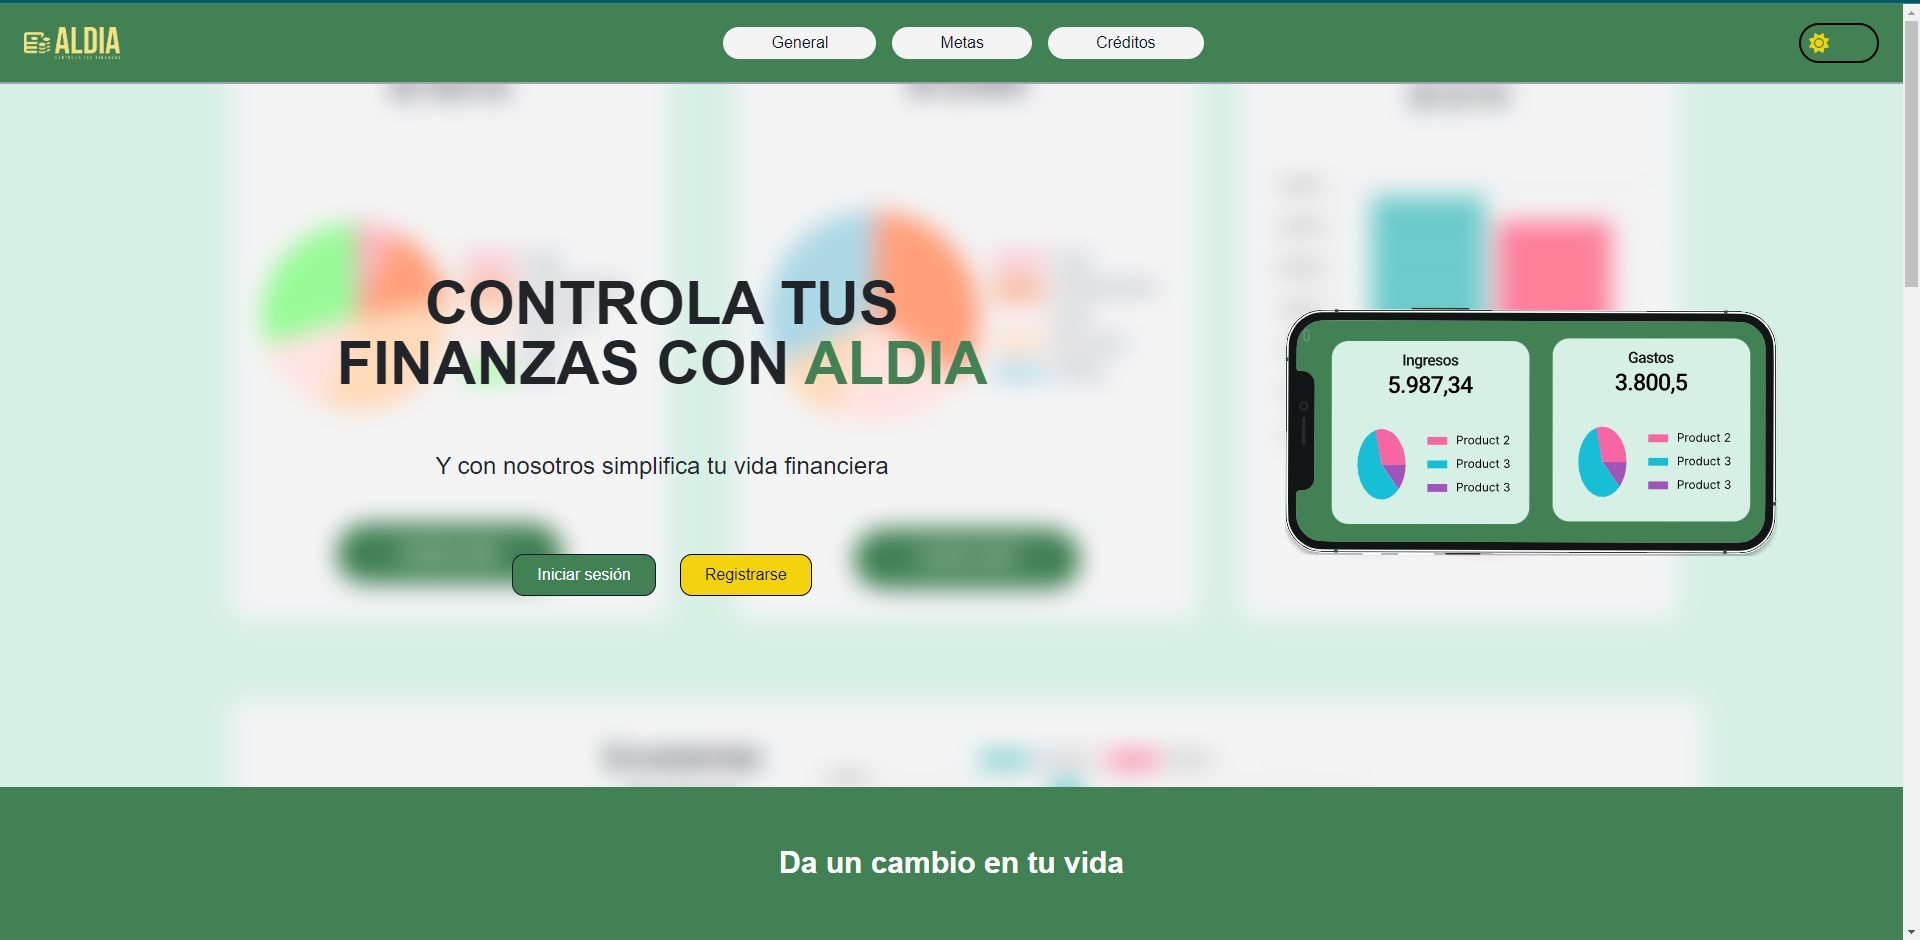
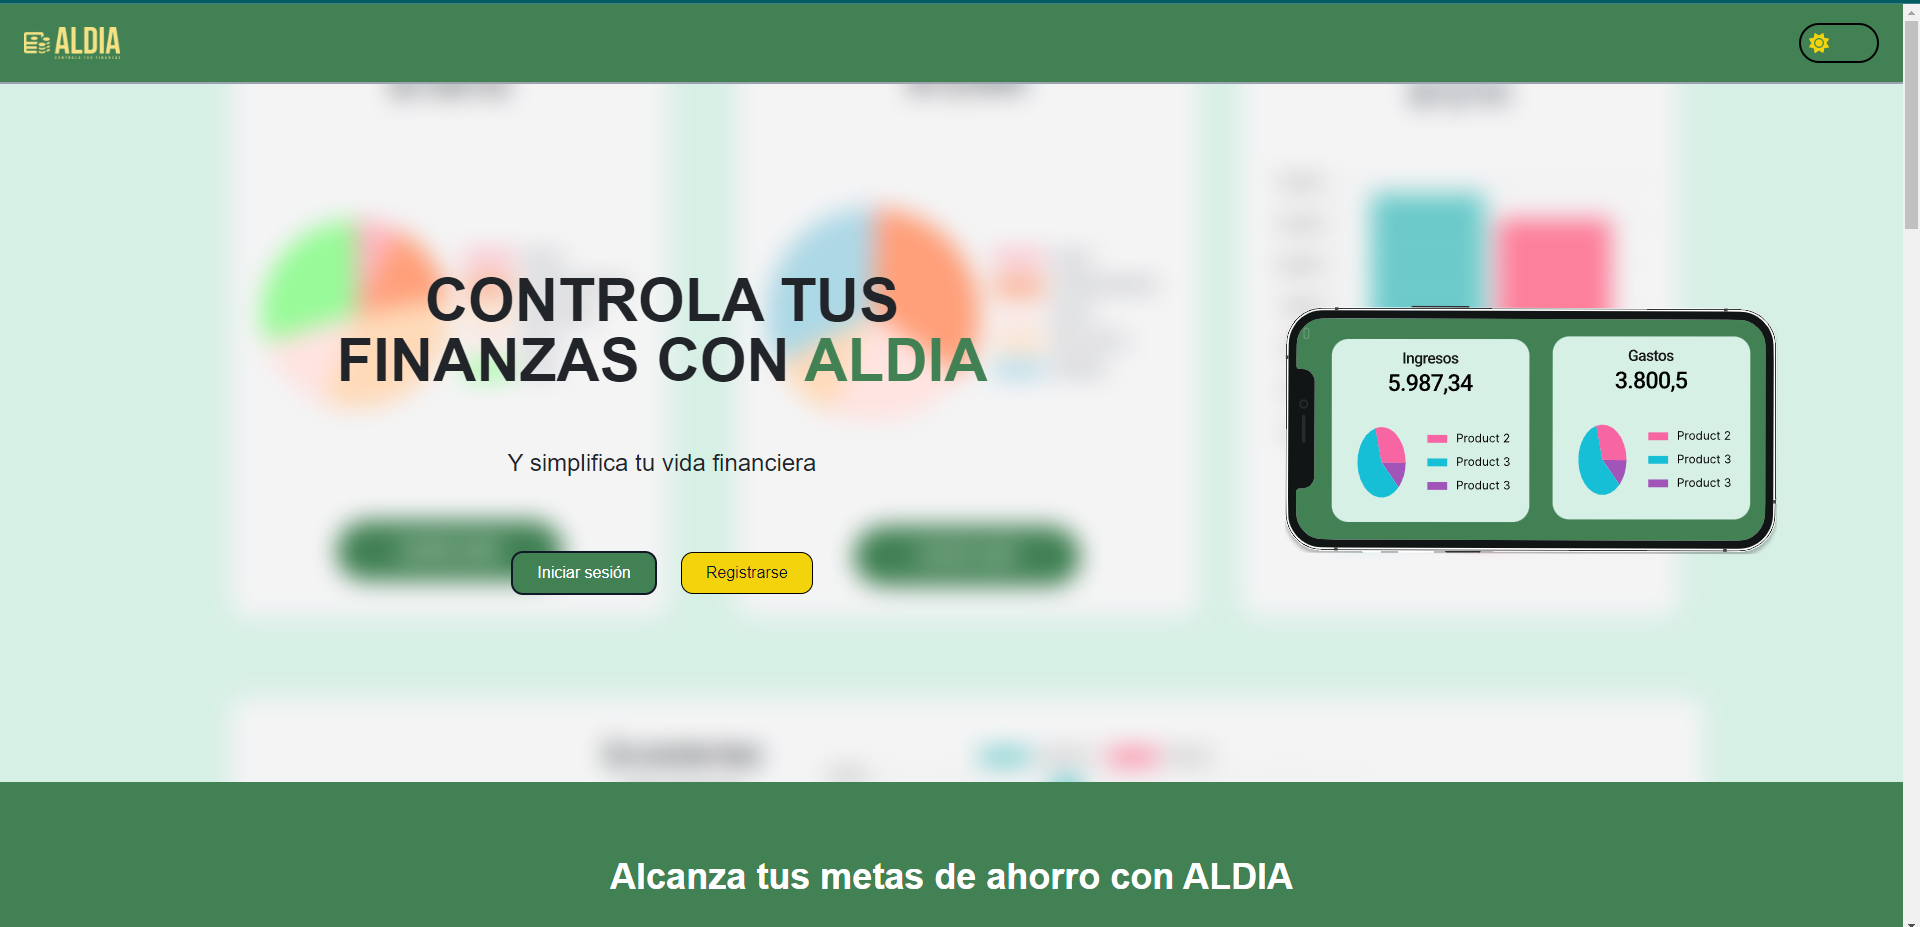
projects card

diff --git a/src/components/Projects/CardNew.jsx b/src/components/Projects/CardNew.jsx
@@ -1,48 +1,27 @@
 import React from "react";
-import { motion } from "framer-motion";
-import { fadeIn } from "../../utils/motion";
 import { styles } from "../../styles";
-import { Tilt } from "react-tilt";
 
 const WorkCard = ({ project, index, language }) => {
-	const {source_code_link, source_deploy} = project
+	const { source_code_link, source_deploy } = project;
 
 	return (
-		<div
-			className="flex flex-wrap gap-8 justify-center pt-8 
-			w-[90vw] md:w-[400px] lg:w-[450px] xl:w-[480px] 2xl:w-[410px] 3xl:w-[440px]"
-			key={index}
-		>
-			<Tilt className="w-[75vw] mb-16"
-			options={{
-				max: 15,
-				scale: 1,
-				speed: 200,
-			}}>
-				<motion.div
-					className="w-full p-[1px] rounded-[20px] shadow-card green-pink-gradient"
-					variants={fadeIn("right", "spring", 0.5 * index, 0.75)}
-					whileHover={{ tilt: 10 }}
-					transition={{ duration: 2 }}
-				>
-					<div
-						options={{
-							max: 10,
-							scale: 1,
-							speed: 200,
-						}}
-						className="bg-[#112240] rounded-[20px] p-6 flex flex-col justify-center
-        		"
-					>
-						<div key={index}>
-							<div className="relative ">
-								<img
-									className="relative z-10 top-0 left-0 w-full h-[220px] mb-3 rounded-xl"
-									src={project?.image[0]} 
-									alt={project?.name + " img"}
-								/>
-							</div>
-							<div className="text-left">
+		<div className="md:w-[60vw] lg:w-[40vw] 3xl:w-[25vw] gap-8 pt-16" key={index}>
+			<div className="p-[1px] rounded-[20px] shadow-card green-pink-gradient-not-hover">
+				<div className="bg-main-blue rounded-[20px] p-6 flex flex-col flex-wrap justify-center">
+					<div key={index} className="flex flex-wrap gap-x-8">
+						{/* image */}
+						<div>
+							<img
+								className="relative z-10 top-0 left-0 w-full h-[220px] mb-3 rounded-xl
+								transition-transform hover:scale-[1.03] cursor-pointer"
+								src={project?.image[0]}
+								alt={project?.name + " img"}
+							/>
+						</div>
+
+						<div>
+							{/* project name, icons deploy and git */}
+							<div className="text-left flex justify-between items-center pb-4">
 								<p
 									className={
 										"text-white hover:text-main-pink hover:opacity-90 duration-1000 font-black text-xl pb-2 "
@@ -50,28 +29,55 @@ const WorkCard = ({ project, index, language }) => {
 								>
 									{project["name_" + language]}
 								</p>
-								<p className="text-gray-400 tracking-wider text-justify pb-2">
+
+								{/* deploy and git icons */}
+								<div className="text-right pt-2 text-2xl flex items-center">
+									{source_code_link && (
+										<a href={source_code_link} target="_blank">
+											<i
+												className={`fa-brands fa-github cursor-pointer p-1 rounded-full mr-2 ${styles?.hoverChangeBorderAndColor}`}
+											></i>
+										</a>
+									)}
+									{source_deploy && (
+										<a href={source_deploy} target="_blank">
+											<svg stroke="currentColor" fill="none" stroke-width="0" viewBox="0 0 15 15" class="text-main-green hover:text-main-pink duration-300 text-[24px] cursor-pointer  hover:opacity-80 " height="1em" width="1em" xmlns="http://www.w3.org/2000/svg"><path fill-rule="evenodd" clip-rule="evenodd" d="M6.85357 3.85355L7.65355 3.05353C8.2981 2.40901 9.42858 1.96172 10.552 1.80125C11.1056 1.72217 11.6291 1.71725 12.0564 1.78124C12.4987 1.84748 12.7698 1.97696 12.8965 2.10357C13.0231 2.23018 13.1526 2.50125 13.2188 2.94357C13.2828 3.37086 13.2779 3.89439 13.1988 4.44801C13.0383 5.57139 12.591 6.70188 11.9464 7.34645L7.49999 11.7929L6.35354 10.6465C6.15827 10.4512 5.84169 10.4512 5.64643 10.6465C5.45117 10.8417 5.45117 11.1583 5.64643 11.3536L7.14644 12.8536C7.34171 13.0488 7.65829 13.0488 7.85355 12.8536L8.40073 12.3064L9.57124 14.2572C9.65046 14.3893 9.78608 14.4774 9.9389 14.4963C10.0917 14.5151 10.2447 14.4624 10.3535 14.3536L12.3535 12.3536C12.4648 12.2423 12.5172 12.0851 12.495 11.9293L12.0303 8.67679L12.6536 8.05355C13.509 7.19808 14.0117 5.82855 14.1887 4.58943C14.2784 3.9618 14.2891 3.33847 14.2078 2.79546C14.1287 2.26748 13.9519 1.74482 13.6035 1.39645C13.2552 1.04809 12.7325 0.871332 12.2045 0.792264C11.6615 0.710945 11.0382 0.721644 10.4105 0.8113C9.17143 0.988306 7.80189 1.491 6.94644 2.34642L6.32322 2.96968L3.07071 2.50504C2.91492 2.48278 2.75773 2.53517 2.64645 2.64646L0.646451 4.64645C0.537579 4.75533 0.484938 4.90829 0.50375 5.0611C0.522563 5.21391 0.61073 5.34954 0.742757 5.42876L2.69364 6.59928L2.14646 7.14645C2.0527 7.24022 2.00002 7.3674 2.00002 7.50001C2.00002 7.63261 2.0527 7.75979 2.14646 7.85356L3.64647 9.35356C3.84173 9.54883 4.15831 9.54883 4.35357 9.35356C4.54884 9.1583 4.54884 8.84172 4.35357 8.64646L3.20712 7.50001L3.85357 6.85356L6.85357 3.85355ZM10.0993 13.1936L9.12959 11.5775L11.1464 9.56067L11.4697 11.8232L10.0993 13.1936ZM3.42251 5.87041L5.43935 3.85356L3.17678 3.53034L1.80638 4.90074L3.42251 5.87041ZM2.35356 10.3535C2.54882 10.1583 2.54882 9.8417 2.35356 9.64644C2.1583 9.45118 1.84171 9.45118 1.64645 9.64644L0.646451 10.6464C0.451188 10.8417 0.451188 11.1583 0.646451 11.3535C0.841713 11.5488 1.1583 11.5488 1.35356 11.3535L2.35356 10.3535ZM3.85358 11.8536C4.04884 11.6583 4.04885 11.3417 3.85359 11.1465C3.65833 10.9512 3.34175 10.9512 3.14648 11.1465L1.14645 13.1464C0.95119 13.3417 0.951187 13.6583 1.14645 13.8535C1.34171 14.0488 1.65829 14.0488 1.85355 13.8536L3.85358 11.8536ZM5.35356 13.3535C5.54882 13.1583 5.54882 12.8417 5.35356 12.6464C5.1583 12.4512 4.84171 12.4512 4.64645 12.6464L3.64645 13.6464C3.45119 13.8417 3.45119 14.1583 3.64645 14.3535C3.84171 14.5488 4.1583 14.5488 4.35356 14.3535L5.35356 13.3535ZM9.49997 6.74881C10.1897 6.74881 10.7488 6.1897 10.7488 5.5C10.7488 4.8103 10.1897 4.25118 9.49997 4.25118C8.81026 4.25118 8.25115 4.8103 8.25115 5.5C8.25115 6.1897 8.81026 6.74881 9.49997 6.74881Z" fill="currentColor"></path></svg>
+											{/* <i
+												className={`fa-solid fa-globe cursor-pointer p-1 rounded-full ${styles?.hoverChangeBorderAndColor}`}
+											></i> */}
+										</a>
+									)}
+								</div>
+							</div>
+							{/* description */}
+							<div>
+								<p className="text-gray-400 tracking-wider text-justify pb-2 flex flex-wrap">
 									{project["description_" + language]}
 								</p>
-								{project?.tags?.map((tag, index)=>{
-									return <span className={`${tag?.color ? tag?.color : "text-gray-500"} + " pr-2`} key={index}>{"#" + tag?.name + " "}</span>
-								})}
-								
 							</div>
-							<div className="text-right pt-2 text-2xl ">
-								{source_code_link && <a href={source_code_link} target="_blank">
-									<i className={`fa-brands fa-github cursor-pointer p-1 rounded-full mr-2 ${styles?.hoverChangeBorderAndColor}`}></i>
-								</a>}
-								{source_deploy &&  <a href={source_deploy} target="_blank">
-									<i className={`fa-solid fa-globe cursor-pointer p-1 rounded-full ${styles?.hoverChangeBorderAndColor}`}></i>
-								</a>}
+						</div>
+
+						<div  className="w-full flex flex-wrap justify-between pt-4">
+							<p>Tech stack:</p>
+							<div className="flex gap-x-1 flex-wrap">
+								{project?.tags?.map((tag, index) => {
+									return (
+										<img
+											className={`w-[35px] ${tag?.name==="typescript" && "!w-[30px] h-[32px]"}
+										 	`}
+											key={index}
+											src={tag?.image}
+											alt={tag?.name}
+										/>
+									);
+								})}
 							</div>
 						</div>
 					</div>
-				</motion.div>
-			</Tilt>
+				</div>
+			</div>
 		</div>
 	);
 };
 
-export default WorkCard
+export default WorkCard;

diff --git a/src/constants/index.js b/src/constants/index.js
@@ -385,16 +385,11 @@ const projects = [
 	{
 		name_english: "Complex Gym - PF Henry",
 		name_spanish: "Gimnasio Complex - PF Henry",
-		description_english:
-			"Full-stack SPA fully responsive for a gym, I had to work with a team of 8 people.",
-		description_spanish:
-			"Full-stack SPA responsive para un gimnasio, trabajamos en un equipo de ocho personas.",
+		description_english: "Complete.",
+		description_spanish: "Completar.",
 		tags: [
-			{ name: "react", color: "text-[#2f80ed]" },
-			{ name: "node", color: "text-green-500" },
-			{ name: "tailwind", color: "text-yellow-500" },
-			{ name: "auth0", color: "text-gray-400" },
-			{ name: "team work", color: "text-white" },
+			{ name: "react", image: reactjs },
+			{ name: "tailwind", image: tailwind },
 		],
 		image: [complex_landing],
 		source_code_link: "https://github.com/complexgym/PF-Complex-Gym-JS",
@@ -403,16 +398,11 @@ const projects = [
 	{
 		name_english: "Liqui - No Country",
 		name_spanish: "Liqui - No Country",
-		description_english:
-			"Academic full stack application made with a group of designers, testers and developers.",
-		description_spanish:
-			"Aplicación académica de liquidación de sueldos hecha con un grupo de diseñados y testers.",
+		description_english: "Complete.",
+		description_spanish: "Completar.",
 		tags: [
-			{ name: "react", color: "text-[#2f80ed]" },
-			{ name: "node", color: "text-green-500" },
-			{ name: "tailwind", color: "text-yellow-500" },
-			{ name: "figma", color: "text-red-500" },
-			{ name: "team work", color: "text-white" },
+			{ name: "react", image: reactjs },
+			{ name: "tailwind", image: tailwind },
 		],
 		image: [liqui_home],
 		source_code_link: "https://github.com/No-Country/C11-10M-Node-js-react",
@@ -421,37 +411,39 @@ const projects = [
 	{
 		name_english: "Cloudlab - No Country",
 		name_spanish: "Cloudlab",
-		description_english:
-			"Full-stack project with the purpose of helping clinical laboratories to manage the sending of their exams.",
-		description_spanish:
-			"Proyecto full-stack con el objetivo de ayudar a los laboratorios clínicos a gestionar el envío de sus exámenes.",
+		description_english: "Complete.",
+		description_spanish: "Completar.",
 		tags: [
-			{ name: "next.js", color: "text-gray-300" },
-			{ name: "node", color: "text-green-500" },
-			{ name: "tailwind", color: "text-yellow-500" },
-			{ name: "typescript", color: "text-blue-500" },
-			{ name: "team work", color: "text-white" },
+			{ name: "react", image: next },
+			{ name: "typescript", image: ts },
+			{ name: "tailwind", image: tailwind },
+			// { name: "next.js", color: "text-gray-300" },
+			// { name: "node", color: "text-green-500" },
+			// { name: "tailwind", color: "text-yellow-500" },
+			// { name: "typescript", color: "text-blue-500" },
+			// { name: "team work", color: "text-white" },
 		],
 		image: [cloudlab_landing],
-		// source_code_link: "https://github.com/No-Country/C11-10M-Node-js-react",
-		source_deploy: "https://aldia.lat/",
+		source_code_link: "https://github.com/No-Country/s9-16-m-node-react",
+		source_deploy: "https://cloudlab-s9-16.vercel.app/",
 	},
 	{
 		name_english: "Aldia APP - Gen Consultores",
 		name_spanish: "Aldia APP - Gen Consultores",
-		description_english:
-			"Full stack freelance project on a group with the aim of helping people in the control of their money.",
-		description_spanish:
-			"Proyecto grupal freelance con el objetivo de ayudar a las personas en el control de sus finanzas.",
+		description_english: "Complete.",
+		description_spanish: "Completar.",
 		tags: [
-			{ name: "next.js", color: "text-gray-300" },
-			{ name: "node", color: "text-green-500" },
-			{ name: "tailwind", color: "text-yellow-500" },
-			{ name: "typescript", color: "text-blue-500" },
-			{ name: "team work", color: "text-white" },
+			{ name: "react", image: next },
+			{ name: "typescript", image: ts },
+			{ name: "tailwind", image: tailwind },
+			// { name: "next.js", color: "text-gray-300" },
+			// { name: "node", color: "text-green-500" },
+			// { name: "tailwind", color: "text-yellow-500" },
+			// { name: "typescript", color: "text-blue-500" },
+			// { name: "team work", color: "text-white" },
 		],
 		image: [aldia_landing],
-		// source_code_link: "https://github.com/No-Country/C11-10M-Node-js-react",
+		source_code_link: "https://github.com/Juanlopez01/aldia-app",
 		source_deploy: "https://aldia.lat/",
 	},
 ];

diff --git a/src/components/Projects/index.jsx b/src/components/Projects/index.jsx
@@ -5,7 +5,7 @@ import { motion } from "framer-motion";
 import {textVariant } from "../../utils/motion";
 import { styles } from "../../styles";
 import SectionWrapper from "../../hoc/SectionWrapper";
-import WorkCard from "./CardOld";
+import WorkCard from "./CardNew";
 
 const Works = () => {
 	const { language } = useSelector((s) => s);
@@ -25,7 +25,7 @@ const Works = () => {
 					<div className={styles.lineTitle}></div>
 				</div>
 			</motion.div>
-			<div className="text-white flex flex-wrap justify-between gap-x-10 ">
+			<div className="text-white flex flex-wrap gap-x-12 ">
 				{projects?.map((project, index) => {
 					return (
 						<WorkCard

diff --git a/src/components/Hero.jsx b/src/components/Hero.jsx
@@ -1,3 +1,4 @@
+import React from "react";
 import { styles } from "../styles";
 import { yo } from "../assets/index";
 import { useSelector } from "react-redux";
@@ -118,10 +119,10 @@ const Hero = () => {
 											></i>
 
 											{/* tw */}
-											<i
+											{/* <i
 												className={`fa-brands fa-twitter text-[20px] rounded-full p-2 mr-[12px] cursor-pointer ${styles.hoverChangeBorderAndColor} hover:scale-110 border-[1px]`}
 												onClick={() => window.open("https://twitter.com/nicovon2")}
-											></i>
+											></i> */}
 										</div>
 									</div>
 								</div>

diff --git a/src/index.css b/src/index.css
@@ -68,6 +68,14 @@ button{
   background: -webkit-linear-gradient(-90.13deg, #64ffda 1.9%, #64ffda 97.5%);
 }
 
+.green-pink-gradient-not-hover {
+	height: auto;
+	width: auto;
+  background: '#64ffda';
+  background: linear-gradient(90.13deg, #64ffda 1.9%, #64ffda 97.5%);
+  background: -webkit-linear-gradient(-90.13deg, #64ffda 1.9%, #64ffda 97.5%);
+}
+
 .green-pink-gradient:hover {
   background: '#ff69b4';
   background: linear-gradient(90.13deg, #ff69b4 1.9%, #ff69b4 97.5%);

diff --git a/src/hoc/SectionWrapper.jsx b/src/hoc/SectionWrapper.jsx
@@ -1,6 +1,7 @@
 import { motion } from "framer-motion";
 import { styles } from "../styles";
 import { staggerContainer } from "../utils/motion";
+import React from "react";
 
 const StarWrapper = (Component, idName) =>
   function HOC() {

diff --git a/src/pages/Home.jsx b/src/pages/Home.jsx
@@ -1,13 +1,13 @@
 import {
 	Hero,
-	Navbar,
 	About,
 	Tech,
 	Experience,
 	Works,
-	Feedbacks,
 	Contact,
 } from "../components/index.js";
+
+import React from "react";
 
 const Home = () => {
 	return (

diff --git a/src/components/FormContact.jsx b/src/components/FormContact.jsx
@@ -1,3 +1,4 @@
+import React from "react";
 import { Tilt } from "react-tilt";
 import { InputText, InputTextArea } from "./Inputs";
 import { motion } from "framer-motion";

diff --git a/src/components/Inputs.jsx b/src/components/Inputs.jsx
@@ -1,3 +1,5 @@
+import React from "react";
+
 const InputText = ({ property, onHandleChange, value }) => {
 	return (
 		<div className="relative group">
